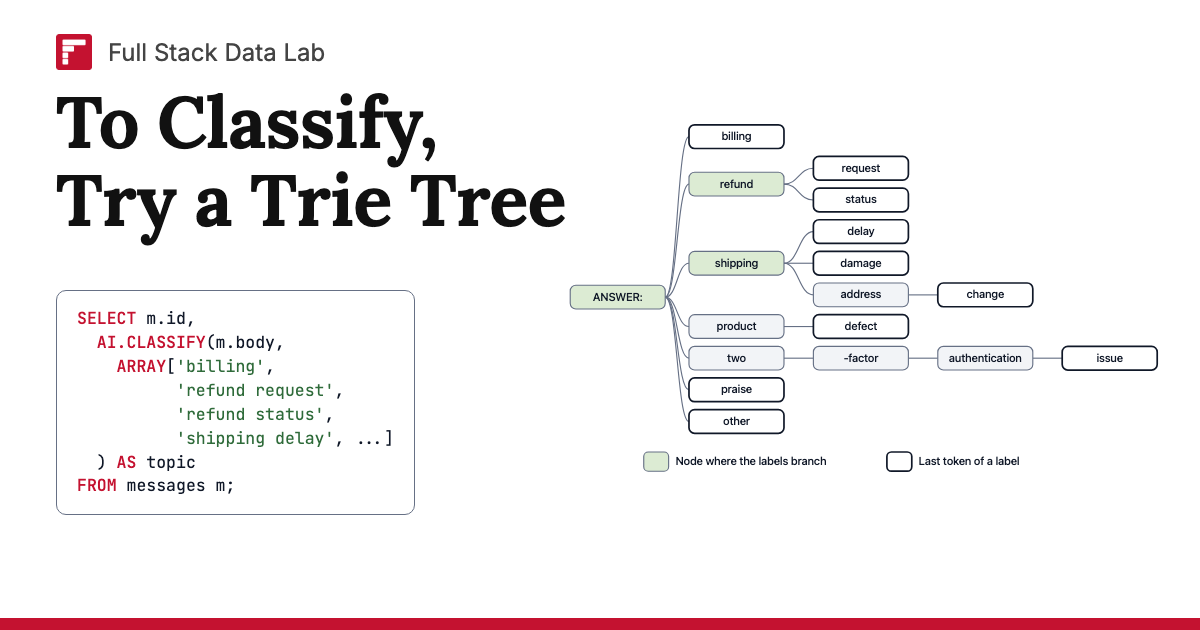
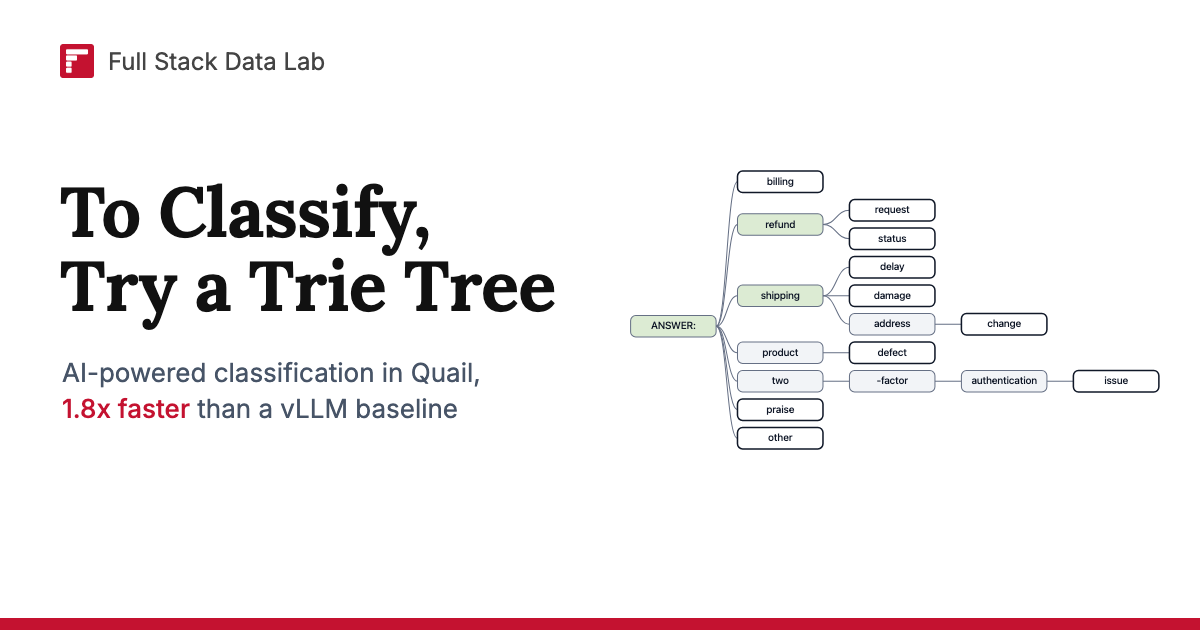
List the AI classification post, date it October 12, and redo its preview image
Claude-Session: https://claude.ai/code/session_01MoNT2oswuno5R7xGoXoh2n

diff --git a/_posts/2026-10-12-ai-classification.md b/_posts/2026-10-12-ai-classification.md
@@ -1,11 +1,9 @@
 ---
 layout: post
 title: "To Classify, Try a Trie Tree"
-date: 2026-10-09
+date: 2026-10-12
 author: "Shreya Shankar, Charles Frye"
 permalink: /blog/ai-classification/
-unlisted: true
-sitemap: false
 math: true
 typora-root-url: ..
 description: "How should an AI-SQL engine classify documents with LLMs at scale? We walk through the ways Quail can do it, and how it picks the cheapest one for a given LLM."
@@ -13,7 +11,7 @@ image:
   path: /assets/blog/ai-classification/social-preview.png
   width: 1200
   height: 630
-  alt: "To Classify, Try a Trie Tree, with an AI.CLASSIFY query and the trie of its labels."
+  alt: "To Classify, Try a Trie Tree: AI-powered classification in Quail, 1.8x faster than a vLLM baseline, with the trie of the labels."
 ---
 
 <aside class="tldr"><strong>TL;DR:</strong> How should an AI-SQL engine classify documents with LLMs at scale? Most systems let the LLM generate an answer and then parse it into a label. But since <a href="https://github.com/fsdatalab/quail">Quail</a> runs the LLM inside its own inference engine, we can do <em>much</em> better &mdash; we can restrict the LLM to the labels and minimize the number of tokens it decodes! On 12 new classification queries in <a href="https://github.com/fsdatalab/quail-bench">QUAIL-B</a>, Quail is <strong>1.8x faster</strong> than a vLLM baseline.</aside>
